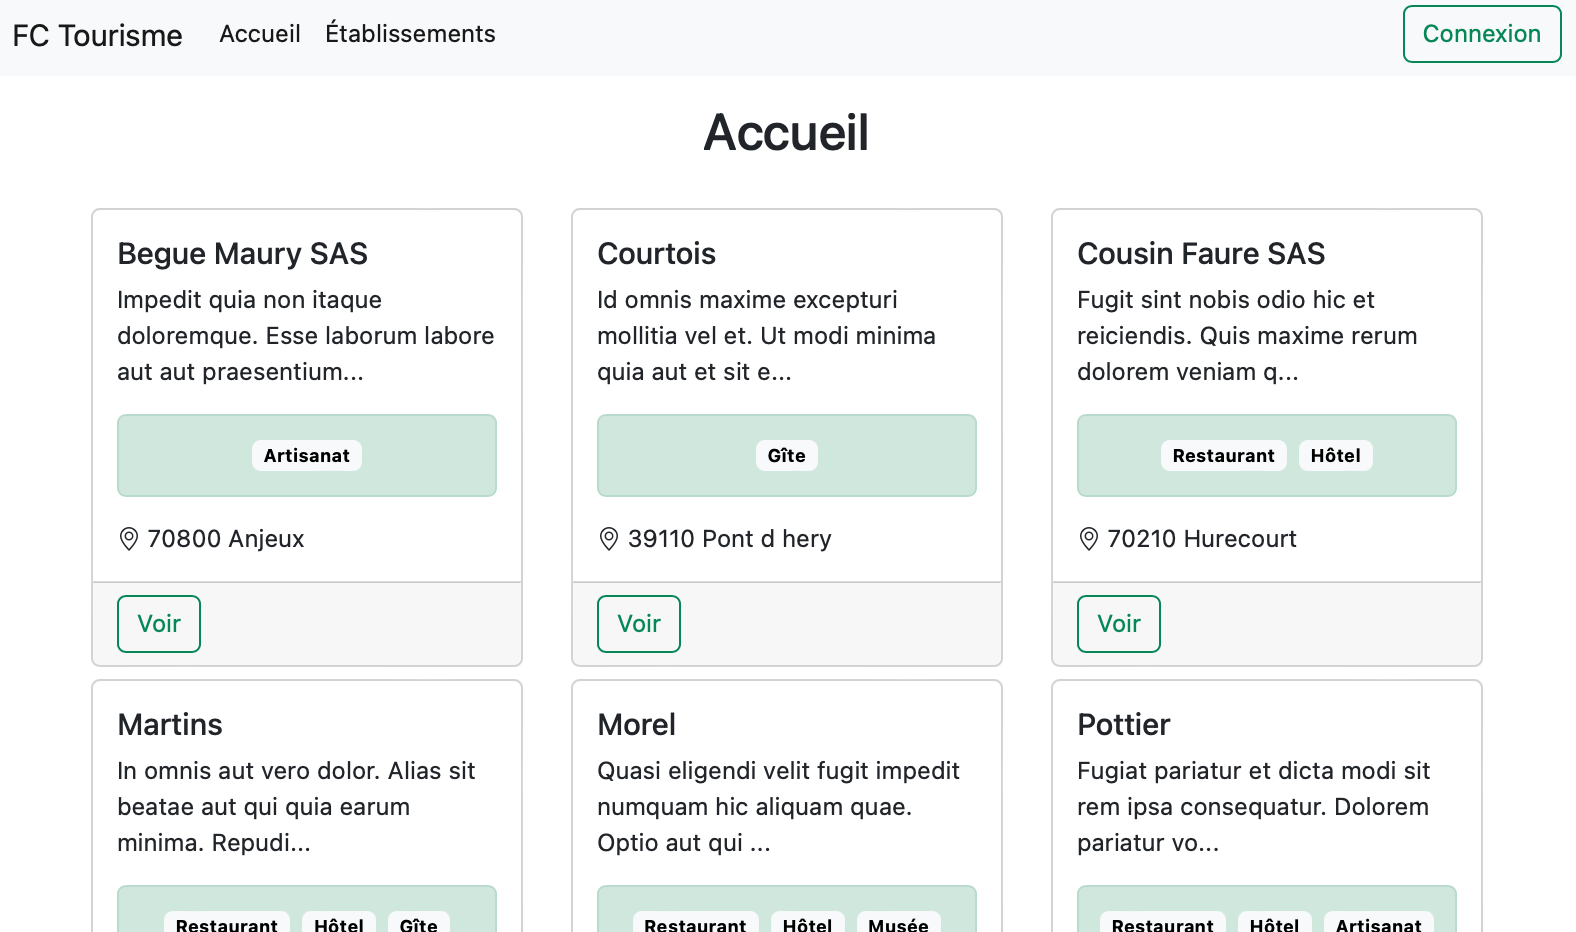
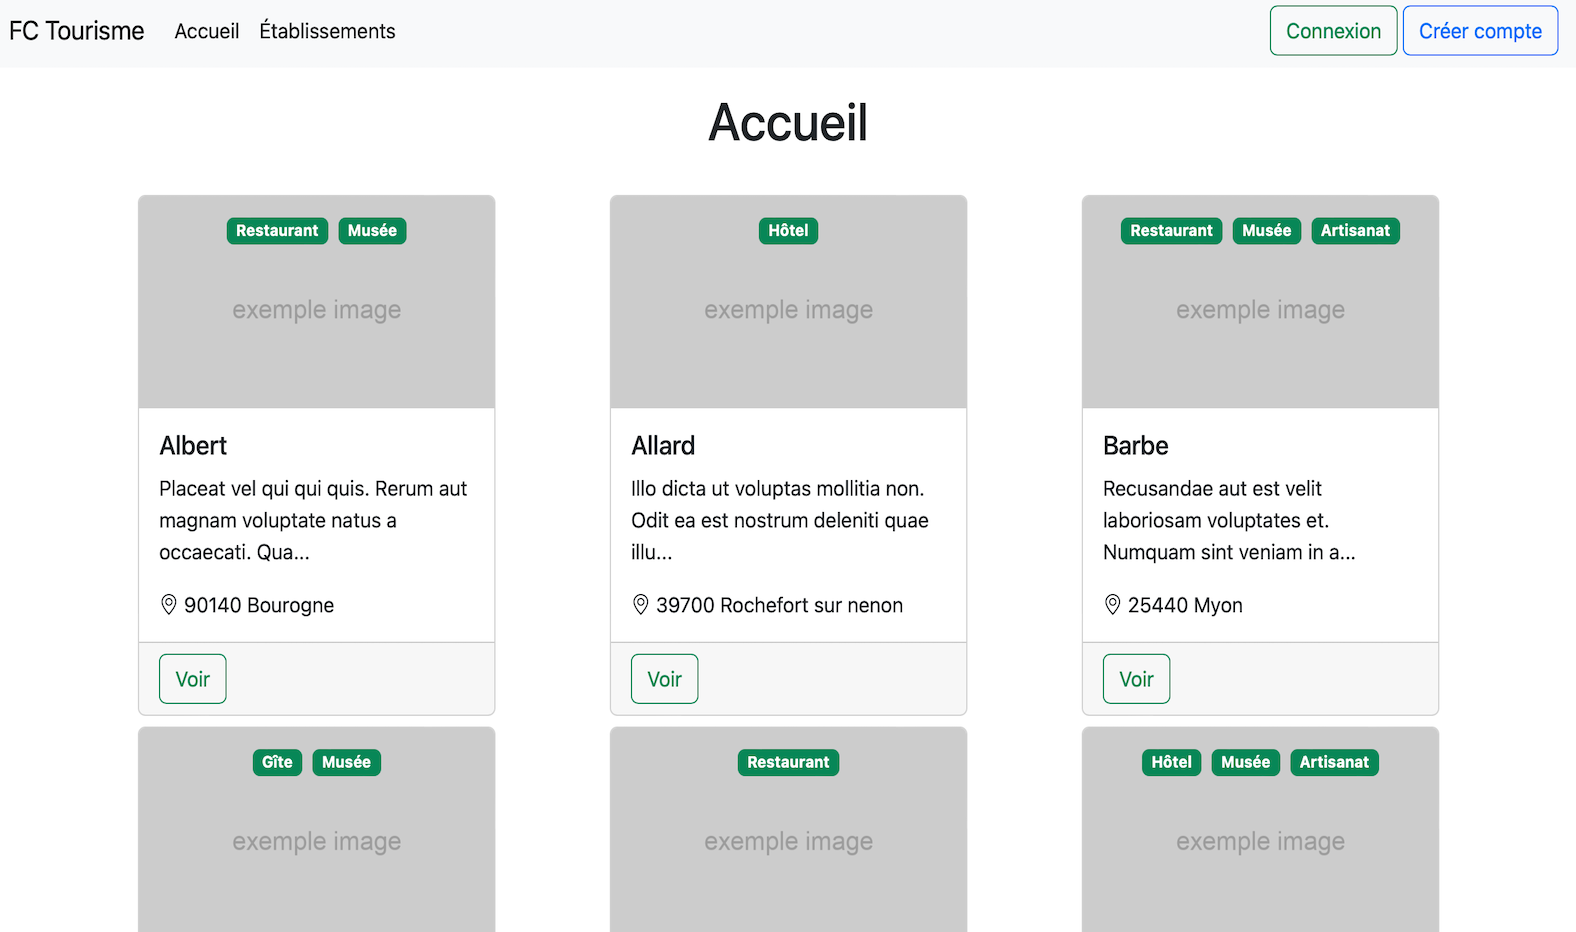
modif image et orthographe

diff --git a/projet.html b/projet.html
@@ -106,6 +106,9 @@
             <img src="./src/img/fc-tourisme/page-login.png" class="d-block w-100" alt="Page de connexion">
           </div>
           <div class="carousel-item">
+            <img src="./src/img/fc-tourisme/page-creation-utilisateur.png" class="d-block w-100" alt="Page de création d'utilisateur">
+          </div>
+          <div class="carousel-item">
             <img src="./src/img/fc-tourisme/etablissements-utilisateur-connecter.png" class="d-block w-100" alt="Page affichant les différents établissement disponible">
           </div>
           <div class="carousel-item">
@@ -129,9 +132,11 @@
           <div class="col-12 encadrerBlanc infoProjet mb-2">
             <h3>Description</h3>
             <p class="mb-0">
-              C'est un site internet permettant aux utilisateurs d'accéder aux établissements de la région Franche Comté afin de mieux les connaître.
+              FC Tourisme permet de mettre en avant des établissements de la région Franche Comté afin de mieux les connaître.
+              <br> <br>
+              Les utilisateurs peuvent se créer un compte pour pouvoir mettre en favoris les établissements qu'ils veulent retrouver facilement.
             </p>
-            <h3>Outils utilisés</h3>
+            <h3 class="mt-3">Outils utilisés</h3>
             <div class="row">
               <div class="col-6">
                 <h5 class="mb-0">Framework :</h5>
@@ -196,8 +201,8 @@
           <div class="col-12 encadrerBlanc mb-2 infoProjet">
             <h3>Description</h3>
             <p class="mb-0">
-              Ce projet est un blog qui organise des artciles par catégories.
-              Il permet l'ajout d'arclies ainsi que de commentaires.
+              Ce projet est un blog qui organise des articles par catégories.
+              Il permet l'ajout d'articles ainsi que de commentaires.
             </p>
             <h3 class="mt-3">Outils utilisés</h3>
             <div class="row">
@@ -233,7 +238,7 @@
               Site permettant à l'entreprise Eurydice d'enregistrer un nouveau client sans passer par le site Doliabrr*,
               grâce à l'utilisation d'une API proposé par Doliarr. <br> <br>
               Il est possible d'accéder à tous les clients de l'entreprise ainsi que de créer un diagnostic
-              c'est-à-dire une analyse du matériel informatique client pour trouvé la solution au problème rencontré par un client.
+              c'est-à-dire une analyse du matériel informatique client pour trouver la solution au problème rencontré par un client.
             </p>
             <br>
             <p class="mb-0">
@@ -289,7 +294,7 @@
             <p class="mb-0">
               Ce site permet aux utilisateurs de jouer à un quiz. <br>
               L'utilisateur peut choisir la catégorie du quiz ainsi que le nombre de questions. <br> <br>
-              Ce site est implémenté en Javascript, qui consomme un API Symfony. Cette API propose deux endpoints un
+              Ce site est implémenté en Javascript, qui consomme un API Symfony. Cette API REST propose deux endpoints un
               pour récupérer les catégories et l'autre pour les questions et réponses en fonction d'un nombre de questions demandé.
             </p>
             <h3 class="mt-3">Outils utilisés</h3>

diff --git a/style_global.css b/style_global.css
@@ -1,0 +1,74 @@
+body {
+    background-color: #2c3e50;
+}
+
+.titre {
+    font-family: Georgia,serif;
+    font-size: 80px;
+}
+
+p {
+    font-family: "Helvetica Neue",serif;
+    text-align: justify;
+}
+
+img {
+    border-radius: var(--bs-border-radius);
+}
+
+#infoAccueilEtude{
+    max-width: 400px;
+}
+
+.petitEncadrement{
+    max-width: 400px;
+    width: 90%;
+}
+
+.infoProjet{
+    width: 95%;
+}
+
+.infoProjet h3{
+    text-align: center;
+}
+
+.encadrerBlanc{
+    padding: 10px;
+    background: #2c3e50;
+    border-radius: 20px;
+    box-shadow: 5px 5px 15px #18222c;
+}
+.encadrerBlanc p{
+    color: white;
+}
+
+.encadrerBlanc h3{
+    color: white;
+}
+
+.encadrerBlanc h5{
+    color: white;
+}
+
+.titreProjet {
+    font-family: Georgia,serif;
+    font-size: 40px;
+    color: white;
+}
+
+#videoStage{
+    border-radius: 20px;
+}
+
+#logoGitHub{
+    cursor: pointer;
+    color: white;
+    font-size: 3rem;
+}
+
+@media screen and (max-width: 500px) {
+    .titre {
+        font-size: 60px;
+    }
+}
